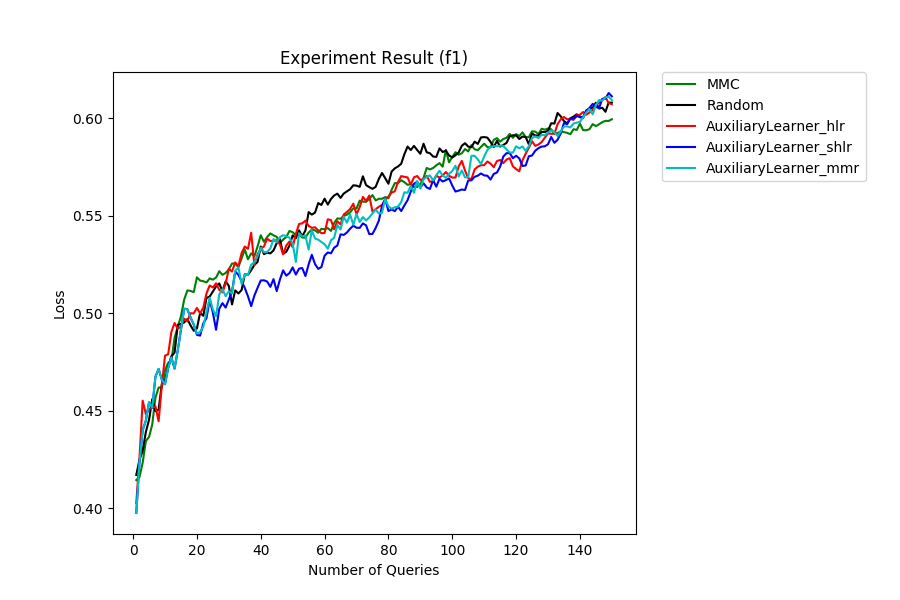
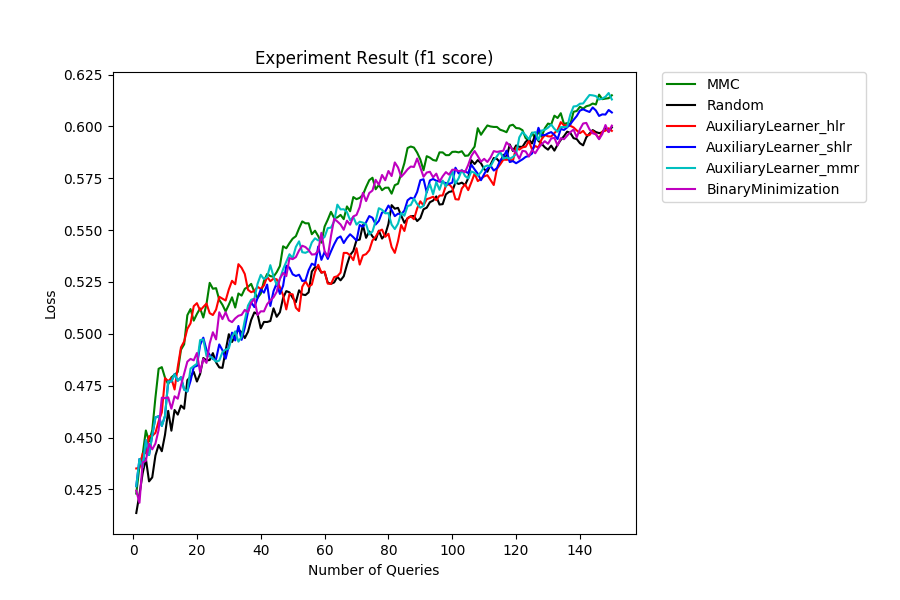
update multilabel_plot example and add binmin to it

diff --git a/examples/multilabel_plot.py b/examples/multilabel_plot.py
@@ -13,14 +13,13 @@ import matplotlib.pyplot as plt
 from sklearn.model_selection import train_test_split
 from sklearn.preprocessing import StandardScaler, MinMaxScaler
 from sklearn.datasets import make_multilabel_classification
-from sklearn.linear_model import LogisticRegression as SKLR
 
 # libact classes
 from libact.base.dataset import Dataset
 from libact.labelers import IdealLabeler
 from libact.query_strategies import RandomSampling
 from libact.query_strategies.multilabel import MultilabelWithAuxiliaryLearner
-from libact.query_strategies.multilabel import MMC
+from libact.query_strategies.multilabel import MMC, BinaryMinimization
 from libact.models.multilabel import BinaryRelevance
 from libact.models import LogisticRegression, SVM
 
@@ -65,19 +64,20 @@ def main():
     test_size = 0.25  # the percentage of samples in the dataset that will be
     # randomly selected and assigned to the test set
 
-    result = {'E1': [], 'E2': [], 'E3': [], 'E4': [], 'E5': []}
+    result = {'E1': [], 'E2': [], 'E3': [], 'E4': [], 'E5': [], 'E6': []}
     for i in range(10):  # repeat experiment
         trn_ds, tst_ds, fully_labeled_trn_ds = split_train_test(test_size)
         trn_ds2 = copy.deepcopy(trn_ds)
         trn_ds3 = copy.deepcopy(trn_ds)
         trn_ds4 = copy.deepcopy(trn_ds)
         trn_ds5 = copy.deepcopy(trn_ds)
+        trn_ds6 = copy.deepcopy(trn_ds)
         lbr = IdealLabeler(fully_labeled_trn_ds)
         model = BinaryRelevance(LogisticRegression())
 
         quota = 150  # number of samples to query
 
-        qs = MMC(trn_ds, br_base=SKLR())
+        qs = MMC(trn_ds, br_base=LogisticRegression())
         _, E_out_1 = run(trn_ds, tst_ds, lbr, model, qs, quota)
         result['E1'].append(E_out_1)
 
@@ -109,17 +109,23 @@ def main():
         _, E_out_5 = run(trn_ds5, tst_ds, lbr, model, qs5, quota)
         result['E5'].append(E_out_5)
 
+        qs6 = BinaryMinimization(trn_ds6, LogisticRegression())
+        _, E_out_6 = run(trn_ds6, tst_ds, lbr, model, qs6, quota)
+        result['E6'].append(E_out_6)
+
     E_out_1 = np.mean(result['E1'], axis=0)
     E_out_2 = np.mean(result['E2'], axis=0)
     E_out_3 = np.mean(result['E3'], axis=0)
     E_out_4 = np.mean(result['E4'], axis=0)
     E_out_5 = np.mean(result['E5'], axis=0)
+    E_out_6 = np.mean(result['E6'], axis=0)
 
     print("MMC: ", E_out_1[::5].tolist())
     print("Random: ", E_out_2[::5].tolist())
     print("MultilabelWithAuxiliaryLearner_hlr: ", E_out_3[::5].tolist())
     print("MultilabelWithAuxiliaryLearner_shlr: ", E_out_4[::5].tolist())
     print("MultilabelWithAuxiliaryLearner_mmr: ", E_out_5[::5].tolist())
+    print("BinaryMinimization: ", E_out_6[::5].tolist())
 
     query_num = np.arange(1, quota + 1)
     fig = plt.figure(figsize=(9, 6))
@@ -129,6 +135,7 @@ def main():
     ax.plot(query_num, E_out_3, 'r', label='AuxiliaryLearner_hlr')
     ax.plot(query_num, E_out_4, 'b', label='AuxiliaryLearner_shlr')
     ax.plot(query_num, E_out_5, 'c', label='AuxiliaryLearner_mmr')
+    ax.plot(query_num, E_out_6, 'm', label='BinaryMinimization')
 
     box = ax.get_position()
     ax.set_position([box.x0, box.y0, box.width * 0.75, box.height])
